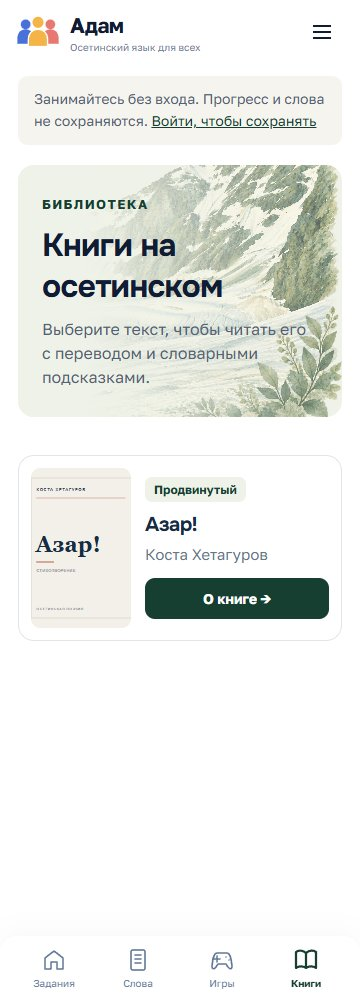
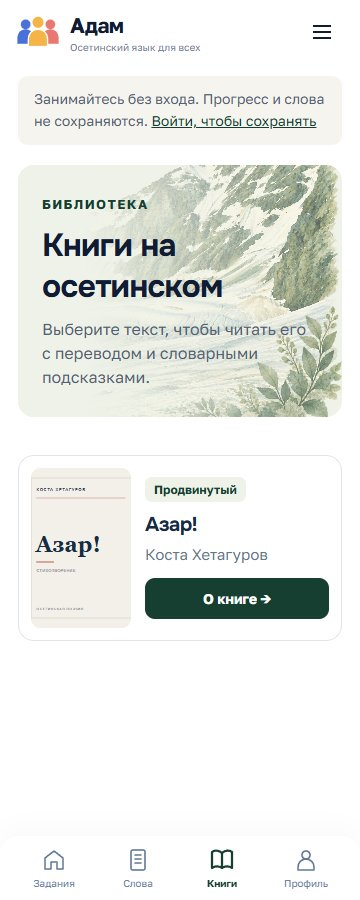
fix: переработать мобильный баннер и нижнюю навигацию
Иллюстрация башни отделена от заголовка и описания, убраны служебные ссылки из мобильного меню. Нижняя панель содержит задания, слова, книги и профиль; подбор пар остаётся в разделе слов. Удалён неиспользуемый обработчик кнопки игр.

Проверено: сборка без ошибок и предупреждений, синтаксис JavaScript, 42 проверки навигации, шесть ширин экрана, отсутствие пересечения текста с иллюстрацией, переход гостя в профиль, подсветка разделов и текст 200%. Обновлены мобильные снимки и контекст.

diff --git a/IronLanguage.Web/wwwroot/css/sections-green.css b/IronLanguage.Web/wwwroot/css/sections-green.css
@@ -190,8 +190,6 @@
   .account-navigation a { padding: 12px 8px; font-size: 13px; }
   .account-navigation svg { width: 18px; height: 18px; }
   .green-theme .guest-notice { margin-inline: 18px; padding: 12px 16px; }
-  .green-theme .home-hero { background-image: linear-gradient(0deg, var(--theme-sage) 6%, #eff2e8ee 38%, #eff2e800 100%), url('../images/green/kurt-tag-watercolor.png'); background-size: 100% 100%, auto 85%; background-position: center, right top; }
-  .green-theme .hero-copy { padding-top: 180px; }
 }
 @media (prefers-reduced-motion: reduce) {
   .green-theme .book-card { transition: none; }
@@ -201,8 +199,6 @@
 .green-theme .home-hero { background-image: none; }
 .green-theme .home-hero::before { content: ""; position: absolute; inset: 0 0 0 auto; width: 48%; background: url('../images/green/kurt-tag-watercolor.png') right 58% / auto 135% no-repeat; mask-image: linear-gradient(90deg, transparent, #000 35%); }
 @media (max-width: 700px) {
-  .green-theme .home-hero::before { inset: 0 0 auto; width: 100%; height: 250px; background-position: right 48%; background-size: auto 160%; mask-image: linear-gradient(0deg, transparent, #000 35%); }
-  .green-theme .hero-copy { padding-top: 240px; }
 }
 .green-theme .footer-inner { border-top: 1px solid var(--theme-border); margin: 12px 40px 0; padding: 24px 0; flex-wrap: wrap; }
 .footer-links { display: flex; gap: 20px; margin-left: auto; font-size: 12px; color: var(--theme-muted); }
@@ -242,19 +238,11 @@
   .green-theme .mobile-is-open .nav-inner > a { grid-column: 1/-1; padding: 12px; border-top: 1px solid var(--theme-border); border-radius: 0; }
   .mobile-account-links { display: flex; flex-wrap: wrap; grid-column: 1/-1; align-items: center; gap: 8px 16px; border-top: 1px solid var(--theme-border); padding-top: 16px; }
   .green-theme .mobile-account-links a { padding: 10px; font-size: 14px; min-height: 44px; }
-  .green-theme .mobile-account-links .mobile-info-link { flex-basis: 100%; font-size: 12px; min-height: 36px; color: var(--theme-muted); padding-block: 6px; }
 }
 .green-theme .home-words-card .theme-button { display: inline-flex; align-items: center; justify-content: center; position: static; border: 1px solid #8ea99a; border-radius: 10px; min-height: 48px; padding: 12px 16px; width: fit-content; background: transparent; }
 .green-theme .home-words-card .words-action-label { position: static; display: inline; width: auto; height: auto; clip-path: none; overflow: visible; white-space: normal; font-size: 14px; line-height: 1.3; }
 @media (max-width: 700px) {
   .green-theme .site-footer { display: none; }
-  .green-theme .home-hero { min-height: 0; }
-  .green-theme .home-hero::before { width: 42%; height: 200px; inset: 0 0 auto auto; background-size: auto 120%; background-position: right center; opacity: .6; mask-image: linear-gradient(90deg, transparent, #000 55%); }
-  .green-theme .hero-copy { padding: 28px 22px 24px; }
-  .green-theme .hero-copy h1 { max-width: 80%; font-size: clamp(28px, 6vw, 36px); line-height: 1.15; }
-  .green-theme .hero-copy > p { max-width: 85%; font-size: 15px; line-height: 1.6; margin-bottom: 20px; }
-  .green-theme .hero-actions { display: grid; gap: 10px; }
-  .green-theme .hero-actions .theme-button { width: 100%; min-height: 48px; }
   .green-theme .home-words-card .theme-button { width: 100%; }
   .green-theme .home-words-card > img { display: none; }
   .green-theme .home-words-card h3 { max-width: none; font-size: 20px; }
@@ -273,4 +261,20 @@
 .green-theme .auth-switch { overflow-wrap: anywhere; }
 /* Size the image to its own painted area so the mask fades its paper boundary. */
 @media (min-width: 701px) { .green-theme .home-hero::before { width: min(48%, 420px); background-size: 100% auto; background-position: right 55%; mask-image: linear-gradient(90deg, transparent, #000 48%); } }
-@media (max-width: 700px) { .green-theme .home-hero::before { background-size: cover; opacity: .5; } }
+
+/* Mobile hero: clear type and a separate illustration, with no image under the copy. */
+.hero-mobile-art { display: none; }
+@media (max-width: 700px) {
+  .green-theme .home-hero { min-height: 0; background: var(--theme-sage); border: 1px solid #e6eadf; }
+  .green-theme .home-hero::before { display: none; }
+  .green-theme .hero-copy { display: grid; grid-template-columns: minmax(0, 1fr) clamp(96px, 25vw, 144px); gap: 12px 18px; padding: 24px 20px 20px; }
+  .hero-mobile-art { display: block; grid-column: 2; grid-row: 1 / 3; align-self: stretch; overflow: hidden; border-radius: 12px; min-height: 168px; }
+  .hero-mobile-art img { display: block; width: 100%; height: 100%; max-height: 208px; object-fit: cover; object-position: 70% 55%; }
+  .green-theme .hero-copy h1 { grid-column: 1; grid-row: 1; max-width: none; margin: 0; font-size: clamp(25px, 5.7vw, 34px); line-height: 1.15; letter-spacing: -.035em; align-self: end; overflow-wrap: anywhere; }
+  .green-theme .hero-copy > p { grid-column: 1; grid-row: 2; max-width: none; min-height: 0; margin: 0; font-size: 14px; line-height: 1.55; }
+  .green-theme .hero-actions { grid-column: 1 / -1; display: grid; gap: 4px; margin-top: 8px; }
+  .green-theme .hero-actions .theme-button { width: 100%; min-height: 48px; padding: 12px 16px; font-size: 15px; border-radius: 10px; }
+  .green-theme .hero-actions .theme-button-secondary { min-width: 0; min-height: 44px; background: transparent; border: 0; box-shadow: none; font-weight: 500; }
+  .green-theme .hero-actions .theme-button-secondary:hover { background: #173f3108; }
+  .green-theme .hero-note { grid-column: 1 / -1; margin: 0; text-align: center; font-size: 12px; color: var(--theme-muted); }
+}

diff --git a/IronLanguage.Web/wwwroot/js/nav.js b/IronLanguage.Web/wwwroot/js/nav.js
@@ -2,14 +2,12 @@
     const header = document.querySelector('.site-header');
     if (!header) return;
     const toggle = header.querySelector('.mobile-menu-toggle');
-    const games = document.querySelector('.bottom-games');
     const backdrop = document.querySelector('.menu-backdrop');
     const outside = [...document.querySelectorAll('#main-content, .site-footer, .mobile-bottom-nav')];
     const menus = [...header.querySelectorAll('.nav-menu')];
     let suppressFocusOpen = false;
     const compact = window.matchMedia('(max-width: 1023px)');
     const closeMenus = () => {
-        if (games.tagName === 'BUTTON') games.setAttribute('aria-expanded', 'false');
         menus.forEach(menu => {
             menu.classList.remove('is-open', 'is-pinned');
             menu.querySelector('.nav-menu-trigger').setAttribute('aria-expanded', String(compact.matches && header.classList.contains('mobile-is-open') && menu.classList.contains('nav-menu-section')));
@@ -35,7 +33,6 @@
             menu.classList.toggle('is-open', open);
             menu.classList.toggle('is-pinned', open && pinned);
             trigger.setAttribute('aria-expanded', String(open || (compact.matches && header.classList.contains('mobile-is-open') && menu.classList.contains('nav-menu-section'))));
-            if (games.tagName === 'BUTTON') games.setAttribute('aria-expanded', String(compact.matches && open && menu.classList.contains('nav-menu-games')));
         };
         if (trigger.tagName === 'BUTTON') trigger.addEventListener('click', () => {
             const open = !menu.classList.contains('is-pinned');
@@ -62,21 +59,8 @@
     });
     toggle.addEventListener('click', () => setMobile(!header.classList.contains('mobile-is-open')));
     backdrop.addEventListener('click', () => { setMobile(false); toggle.focus(); });
-    if (games.tagName === 'BUTTON') games.addEventListener('click', () => {
-        const open = games.getAttribute('aria-expanded') !== 'true';
-        setMobile(open);
-        if (open) {
-            closeMenus();
-            const menu = header.querySelector('.nav-menu-games');
-            menu.classList.add('is-open');
-            menu.querySelector('.nav-menu-trigger').setAttribute('aria-expanded', 'true');
-            games.setAttribute('aria-expanded', 'true');
-            menu.querySelector('.nav-menu-trigger').focus();
-            header.scrollIntoView({ block: 'start' });
-        }
-    });
     document.addEventListener('click', event => {
-        if (!event.composedPath().includes(header) && !games.contains(event.target)) setMobile(false);
+        if (!event.composedPath().includes(header)) setMobile(false);
         if (header.querySelector('.main-nav').contains(event.target) && event.target.closest('a')) setMobile(false);
     });
     document.addEventListener('keydown', event => {

diff --git a/WORK_CONTEXT.md b/WORK_CONTEXT.md
@@ -1,6 +1,6 @@
 # Контекст работы над «Адам»
 
-Актуально на 14 октября 2026 года. Это сводка для продолжения разработки; инструкции по запуску находятся в [README.md](README.md).
+Актуально на 15 октября 2026 года. Это сводка для продолжения разработки; инструкции по запуску находятся в [README.md](README.md).
 
 ## Интеграция зелёного оформления
 
@@ -8,11 +8,11 @@
 
 Внутренние страницы оформляет `wwwroot/css/sections-green.css`: цветовые заголовки и карточки упражнений, диалоги, сетка слов, библиотека, спокойная читалка, вход и регистрация, профиль и результаты. Учётная запись и результаты используют общую боковую навигацию. По замечаниям пользователя аватар оставлен в основной части профиля, результаты — в боковом меню, слова — в общей навигации. Редактор доступен только роли Editor. Блок чтения на главной по последнему указанию сохранён и объясняет два шага: сохранять слова из книг → повторять в тренировке.
 
-Иллюстрации созданы встроенным imagegen по выбранным фотографиям реальных мест: башня Курта и Тага — только в главном баннере; Цей в зелёной палитре — в библиотеке и входе. Переход у башни выполнен маской самой иллюстрации. В редакторе вымышленные горы убраны. SVG-фон аватара схематично повторяет профиль Цея; AvatarRenderer.Version = 4. Источники, лицензии CC BY-SA 4.0 и промпты — `docs/design/green-integration/ARTWORK.md`, публичное указание авторов — `/Home/Illustrations`. Политика конфиденциальности по просьбе пользователя пока содержит только заголовок; текст не составлен. Подвал скрыт на телефонах; информационные ссылки доступны из меню.
+Иллюстрации созданы встроенным imagegen по выбранным фотографиям реальных мест: башня Курта и Тага — только в главном баннере; Цей в зелёной палитре — в библиотеке и входе. На компьютере переход у башни выполнен маской самой иллюстрации; на телефоне башня вынесена в отдельную колонку справа от заголовка и описания, без картинки под текстом. В редакторе вымышленные горы убраны. SVG-фон аватара схематично повторяет профиль Цея; AvatarRenderer.Version = 4. Источники, лицензии CC BY-SA 4.0 и промпты — `docs/design/green-integration/ARTWORK.md`, публичное указание авторов — `/Home/Illustrations`. Политика конфиденциальности по просьбе пользователя пока содержит только заголовок; текст не составлен. Подвал скрыт на телефонах; ссылки на политику и иллюстрации из мобильного меню убраны по указанию пользователя.
 
-Мобильное меню — ограниченная по высоте панель поверх страницы, с затемнением, блокировкой прокрутки и фона, удержанием фокуса и Escape. Исправлена регрессия: замена SVG значка во время click отсоединяла event.target и немедленно закрывала меню; проверка клика снаружи теперь использует composedPath. Нижняя кнопка игр ведёт в действующий подбор пар. `tests/navigation-browser.cjs` покрывает нажатие на SVG, фокус, Escape и настольное раскрытие.
+Мобильное меню — ограниченная по высоте панель поверх страницы, с затемнением, блокировкой прокрутки и фона, удержанием фокуса и Escape. Исправлена регрессия: замена SVG значка во время click отсоединяла event.target и немедленно закрывала меню; проверка клика снаружи теперь использует composedPath. Нижняя панель по последнему указанию пользователя содержит «Задания», «Слова», «Книги», «Профиль»; подбор пар доступен через слова. Для гостя профиль ведёт на вход с возвратом в /profile. `tests/navigation-browser.cjs` покрывает нажатие на SVG, фокус, Escape и настольное раскрытие.
 
-Проверки: сборка решения без ошибок и предупреждений, JavaScript node --check, согласованность модели EF (pending model changes: False), наличие Ӕ/ӕ в cmap обоих шрифтов. Увеличение текста до 200% проверено на семи страницах при 360 px; длинная подпись регистрации переносится. В работающем Edge: 89 проверок гостевых страниц на 360/600/768/1024/1280/1920 px, читалка и словарная подсказка с Enter/Escape; 36 проверок навигации; мобильная главная, подпись кнопки и отсутствие подвала на 360/587 px; аватары — 61 браузерная и 54 проверки отрисовки. Отдельно выполнено 37 проверок аккаунта, роли Editor, всех форм конструктора на 360/768/1280 px, создания черновика аудиопазла из существующего сида, публикации, неверного/верного пошагового ответа и эмоции Happy, новой версии, повторной отправки, CSRF и изоляции гостей. Только временные записи проверки удалены по сохранённым ID; прежние аккаунты, материалы, медиа и ключи сохранены. Полная партия подбора пар не проверена: в подготовленной БД одно опубликованное слово.
+Проверки: сборка решения без ошибок и предупреждений, JavaScript node --check, согласованность модели EF (pending model changes: False), наличие Ӕ/ӕ в cmap обоих шрифтов. Увеличение текста до 200% проверено на семи страницах при 360 px; длинная подпись регистрации переносится. В работающем Edge: 89 проверок гостевых страниц на 360/600/768/1024/1280/1920 px, читалка и словарная подсказка с Enter/Escape; 42 проверки навигации после изменения нижней панели; мобильная главная, подпись кнопки и отсутствие подвала на 360/587 px; аватары — 61 браузерная и 54 проверки отрисовки. Отдельно выполнено 37 проверок аккаунта, роли Editor, всех форм конструктора на 360/768/1280 px, создания черновика аудиопазла из существующего сида, публикации, неверного/верного пошагового ответа и эмоции Happy, новой версии, повторной отправки, CSRF и изоляции гостей. Только временные записи проверки удалены по сохранённым ID; прежние аккаунты, материалы, медиа и ключи сохранены. Полная партия подбора пар не проверена: в подготовленной БД одно опубликованное слово.
 
 Актуальный самостоятельный предпросмотр: `.run-design-integration/site`, адрес http://127.0.0.1:63310, подключение из `.run-local/connection.ps1`, прежний каталог ключей Data Protection. Временные проверочные скрипты и логи — в игнорируемом `.run-design-integration`. Итоговые снимки главной и библиотеки — `docs/design/green-integration`.
 

diff --git a/DESIGN_SYSTEM.md b/DESIGN_SYSTEM.md
@@ -38,7 +38,7 @@
 - Названия «Задания» и «Слова» ведут на / и /vocabulary. Без отдельных стрелок: на компьютере подменю открывается наведением или клавиатурным фокусом; ArrowDown переводит фокус к его пунктам, Escape закрывает. В компактном меню пункты этих разделов видны сразу после открытия общей навигации.
 - «Начать заниматься» переводит фокус к блоку направлений; ссылка пропуска шапки — к основному содержимому.
 - Скрытые меню исключаются из обхода клавиатурой. Фокус обозначен контуром 3 px. Переходы отключаются при `prefers-reduced-motion`.
-- В нижней панели «Игры» открывает существующие заглушки. Учебные направления доступны через «Задания».
+- Нижняя панель: «Задания», «Слова», «Книги», «Профиль». Подбор пар доступен через раздел слов.
 
 ## Иллюстрации и компоненты
 
@@ -54,4 +54,6 @@
 
 Башня Курта и Тага используется только в главном баннере; акварель Цея — в библиотеке и входе/регистрации. Читалка, задания, редактор и словарь не повторяют фотографии. Старые иллюстрации с вымышленными башнями в действующем интерфейсе не используются. Источники и условия CC BY-SA 4.0 приведены в `docs/design/green-integration/ARTWORK.md` и на `/Home/Illustrations`. Горы в SVG-фоне аватара схематично повторяют выбранный профиль Цея; версия рендера — 4.
 
-Мобильное меню открывается отдельной панелью с затемнением, блокировкой фона и удержанием клавиатурного фокуса; Escape возвращает фокус на кнопку. Игры в нижней панели ведут к действующему подбору пар. Подвал на телефонах скрыт, информационные ссылки доступны через меню. В профиле аватар доступен в основной части, результаты — в боковой навигации, словарь — в общей шапке. Главная сохраняет два явных шага: чтение и сохранение слов → тренировка.
+Мобильное меню открывается отдельной панелью с затемнением, блокировкой фона и удержанием клавиатурного фокуса; Escape возвращает фокус на кнопку. В нижней панели доступны задания, слова, книги и профиль; подбор пар остаётся в разделе слов. Подвал на телефонах скрыт, ссылки на политику и иллюстрации остаются в настольном подвале. В профиле аватар доступен в основной части, результаты — в боковой навигации, словарь — в общей шапке. Главная сохраняет два явных шага: чтение и сохранение слов → тренировка.
+
+На телефонах до 700 px главный баннер использует отдельную иллюстрацию башни справа от заголовка и описания. Текст и изображение занимают разные колонки, фоновая картинка отключена. Основная кнопка полноразмерная, переход к книгам — спокойное вторичное действие. Ссылки на политику конфиденциальности и иллюстрации удалены из мобильного меню по указанию пользователя.

diff --git a/docs/design/green-integration/README.md b/docs/design/green-integration/README.md
@@ -1,6 +1,6 @@
 # Зелёное оформление — реализованные страницы
 
-Ветка `codex/green-design-integration`, 14 октября 2026 года. Это снимки работающего сайта, а не концептуальные PNG. Учебные страницы используют материалы подготовленной локальной БД; примеры из старых макетов не добавлялись.
+Ветка `codex/green-design-integration`, 15 октября 2026 года. Это снимки работающего сайта, а не концептуальные PNG. Учебные страницы используют материалы подготовленной локальной БД; примеры из старых макетов не добавлялись.
 
 | Главная | Библиотека |
 | --- | --- |
@@ -10,3 +10,5 @@
 [Источники иллюстраций, лицензии и промпты](ARTWORK.md) · [Правила дизайн-системы](../../../DESIGN_SYSTEM.md)
 
 Проверены широкие и узкие окна, клавиатура, текст 200%, чтение с подсказкой, вход и регистрация, аватар, роль редактора, черновик и новая версия аудиопазла, повторный ответ, CSRF и изоляция гостей. Подбор пар проверен только в пустом состоянии: в подготовленной БД одно опубликованное слово. Политика конфиденциальности пока пустая, по указанию пользователя.
+
+Мобильная главная обновлена: иллюстрация отделена от текста. В нижней панели — задания, слова, книги и профиль. Служебные ссылки из меню убраны; подвал на телефонах скрыт. Проверены 360/478/600/700/768/1280 px, разделение областей текста и картинки, переход гостя в профиль и текст 200%.
